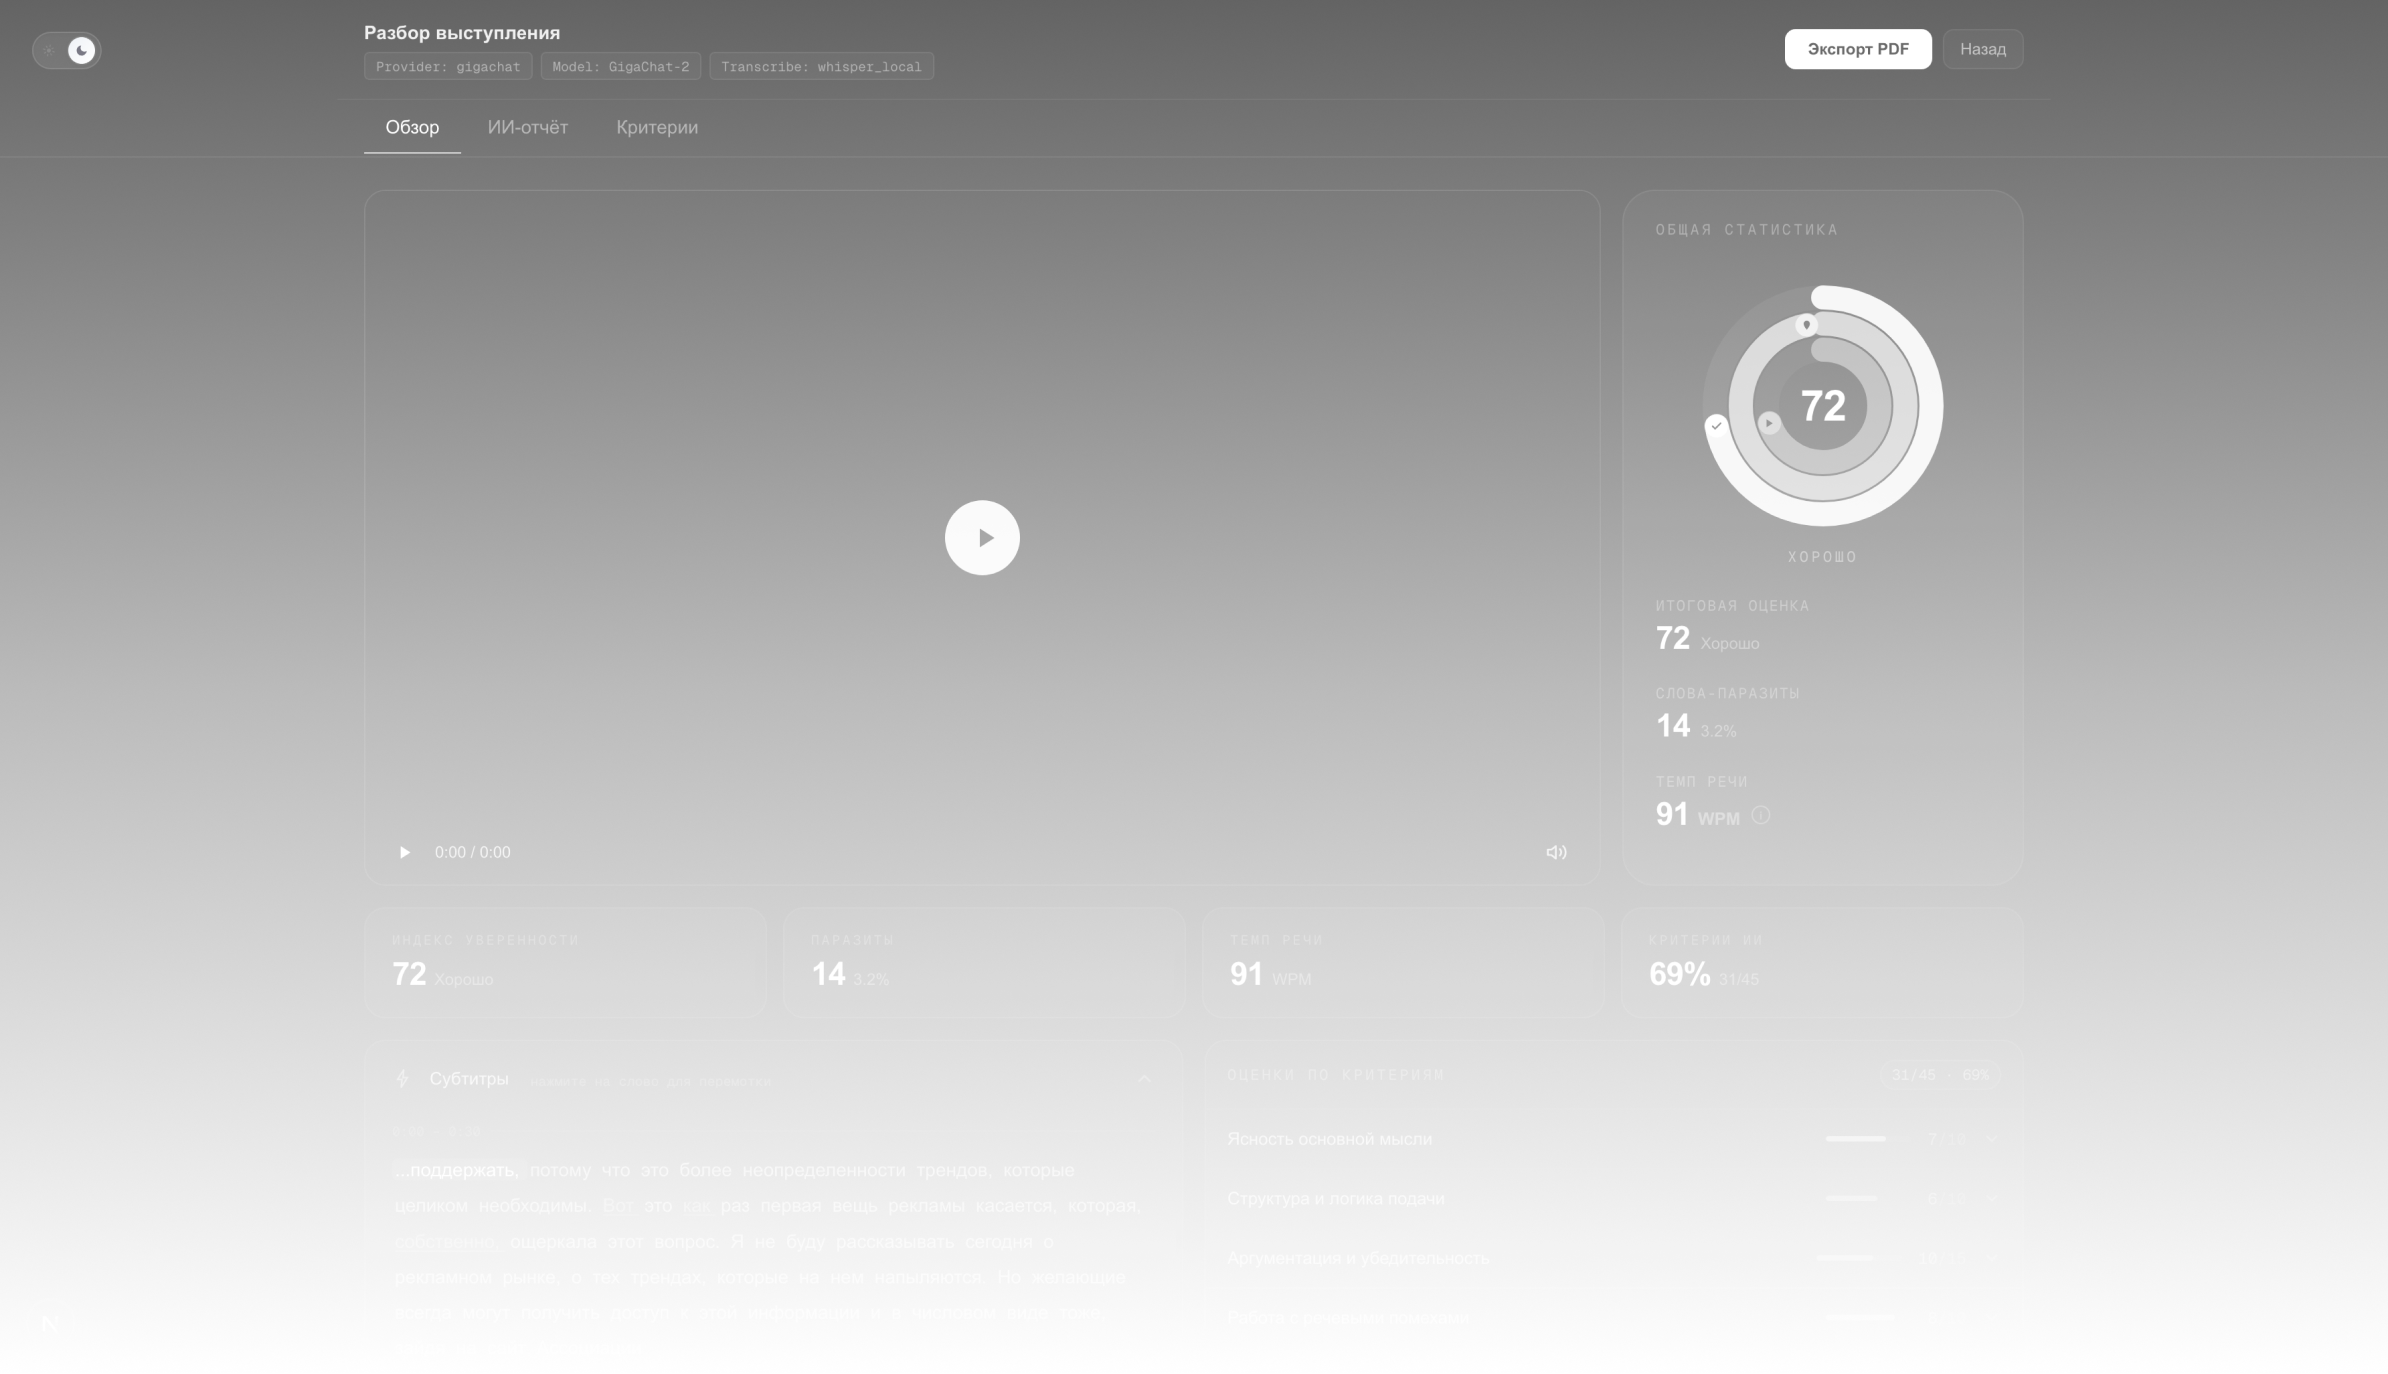
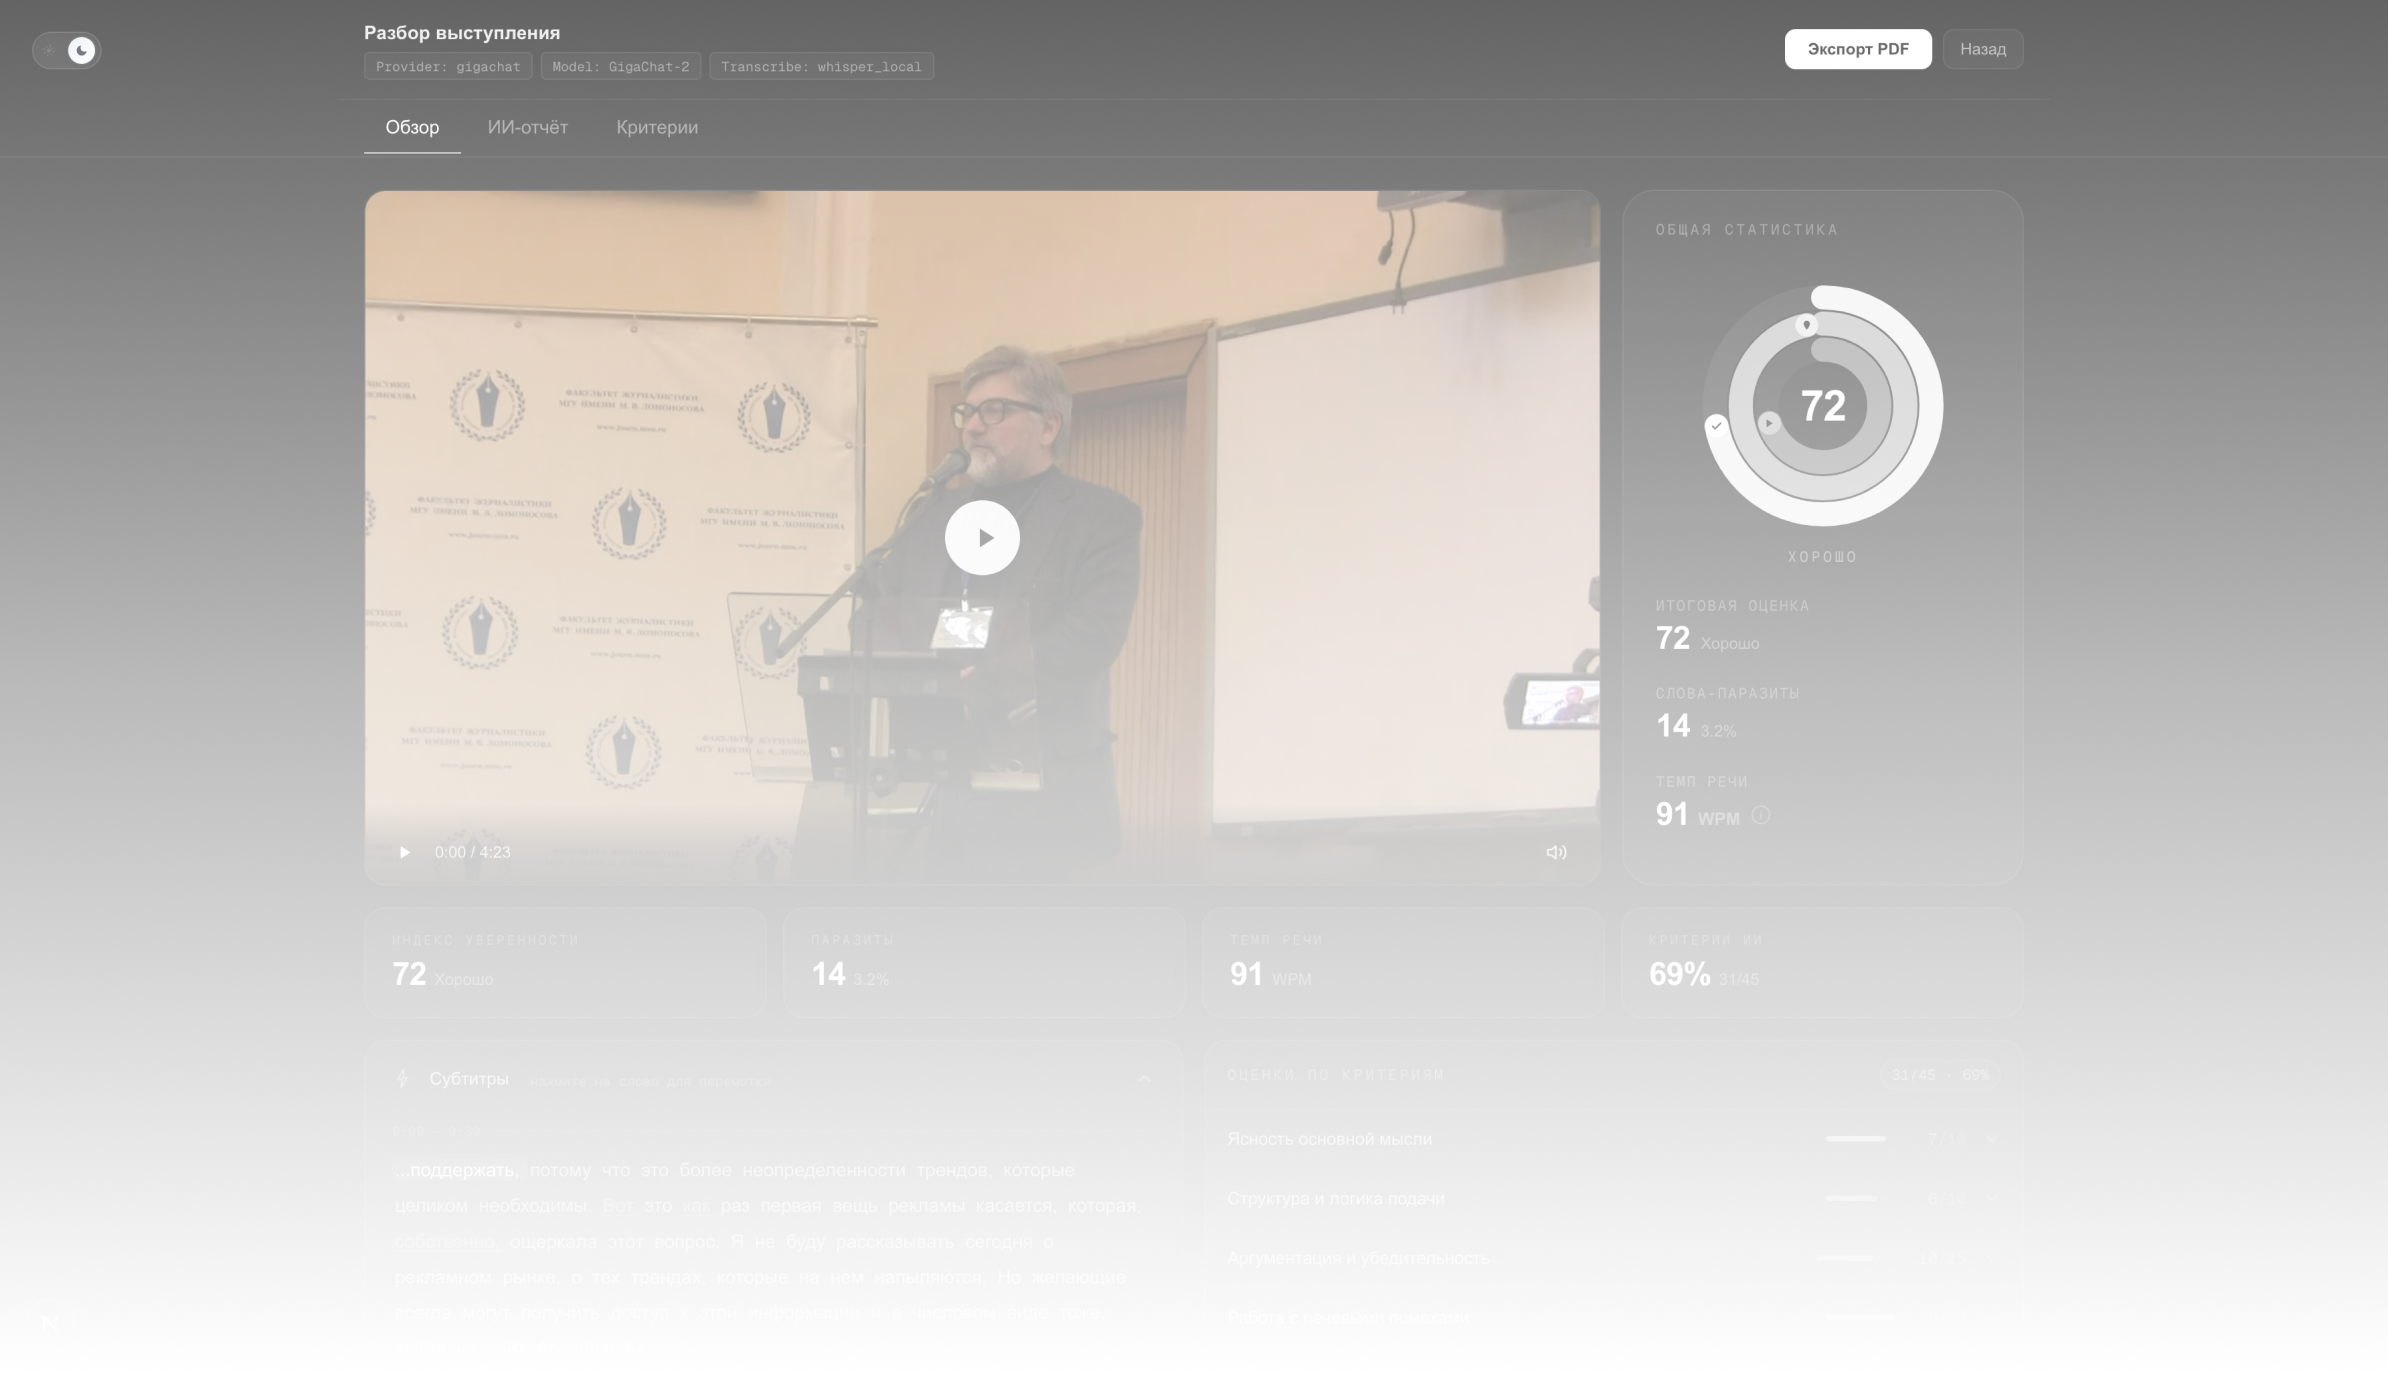
fix(ui): improve dark theme auth panel, PDF menu opacity, and chart render timing

Changed region(s): [[0.1549, 0.1223, 0.6817, 0.6114], [0.4028, 0.5502, 0.4338, 0.5808]]

diff --git a/services/frontend/components/auth/auth-panel.tsx b/services/frontend/components/auth/auth-panel.tsx
@@ -235,7 +235,7 @@ export function AuthPanel() {
               animate="visible"
               exit="exit"
               onClick={() => setIsOpen(false)}
-              className="absolute inset-0 bg-foreground/50"
+              className="absolute inset-0 [background:var(--modal-backdrop)]"
             />
 
             {/* Panel */}
@@ -244,7 +244,7 @@ export function AuthPanel() {
               initial="hidden"
               animate="visible"
               exit="exit"
-              className="relative w-full max-w-sm overflow-hidden rounded-2xl border border-card-border bg-card-bg backdrop-blur-xl shadow-[0_32px_80px_var(--shadow-color)]"
+              className="relative w-full max-w-sm overflow-hidden rounded-2xl border border-card-border [background:var(--modal-bg)] backdrop-blur-xl shadow-[0_32px_80px_var(--shadow-color)]"
               onClick={(e) => e.stopPropagation()}
             >
               <div className="absolute inset-x-0 top-0 h-px bg-gradient-to-r from-transparent via-foreground/20 to-transparent" />

diff --git a/services/frontend/components/analysis/tempo-chart.tsx b/services/frontend/components/analysis/tempo-chart.tsx
@@ -1,6 +1,6 @@
 "use client";
 
-import { useMemo, useState, useEffect } from "react";
+import { useMemo, useState, useEffect, useRef } from "react";
 import { TempoPoint } from "@/types/analysis";
 import {
   CartesianGrid,
@@ -68,9 +68,11 @@ const CustomTooltip = ({ active, payload }: any) => {
 
 export function TempoChart({ data, currentTime }: Props) {
   const [mounted, setMounted] = useState(false);
+  const containerRef = useRef<HTMLDivElement>(null);
 
   useEffect(() => {
-    setMounted(true);
+    const timer = setTimeout(() => setMounted(true), 350);
+    return () => clearTimeout(timer);
   }, []);
 
   if (!data?.length) return null;
@@ -105,6 +107,7 @@ export function TempoChart({ data, currentTime }: Props) {
       </div>
 
       <div
+        ref={containerRef}
         className="h-[220px] w-full min-h-0 overflow-hidden rounded-[20px] border border-foreground/[0.06] px-2 py-3 md:px-3"
         style={{
           background:

diff --git a/services/frontend/components/shared/pdf-export-modal.tsx b/services/frontend/components/shared/pdf-export-modal.tsx
@@ -191,7 +191,7 @@ export function PdfExportDropdown({ result }: PdfExportDropdownProps) {
 
       <PopoverPanel
         transition
-        className="absolute right-0 top-full mt-2 w-[260px] rounded-xl border border-card-border bg-glass-bg backdrop-blur-2xl shadow-[0_16px_48px_var(--shadow-color)] overflow-hidden transition duration-200 ease-out data-[closed]:scale-95 data-[closed]:opacity-0"
+        className="absolute right-0 top-full mt-2 w-[260px] rounded-xl border border-card-border [background:var(--modal-bg)] backdrop-blur-2xl shadow-[0_16px_48px_var(--shadow-color)] overflow-hidden transition duration-200 ease-out data-[closed]:scale-95 data-[closed]:opacity-0"
       >
         {({ close }) => (
           <>

diff --git a/services/frontend/app/globals.css b/services/frontend/app/globals.css
@@ -48,6 +48,8 @@
   --safari-bar-inner: #1e1e22;
   --safari-icon: #666666;
   --safari-url-text: #888888;
+  --modal-backdrop: rgba(0, 0, 0, 0.7);
+  --modal-bg: rgba(18, 18, 22, 0.92);
 }
 
 [data-theme="light"] {
@@ -97,6 +99,8 @@
   --safari-bar-inner: #f5f1ea;
   --safari-icon: #999999;
   --safari-url-text: #777777;
+  --modal-backdrop: rgba(0, 0, 0, 0.4);
+  --modal-bg: rgba(255, 252, 244, 0.92);
 }
 
 @utility container {
